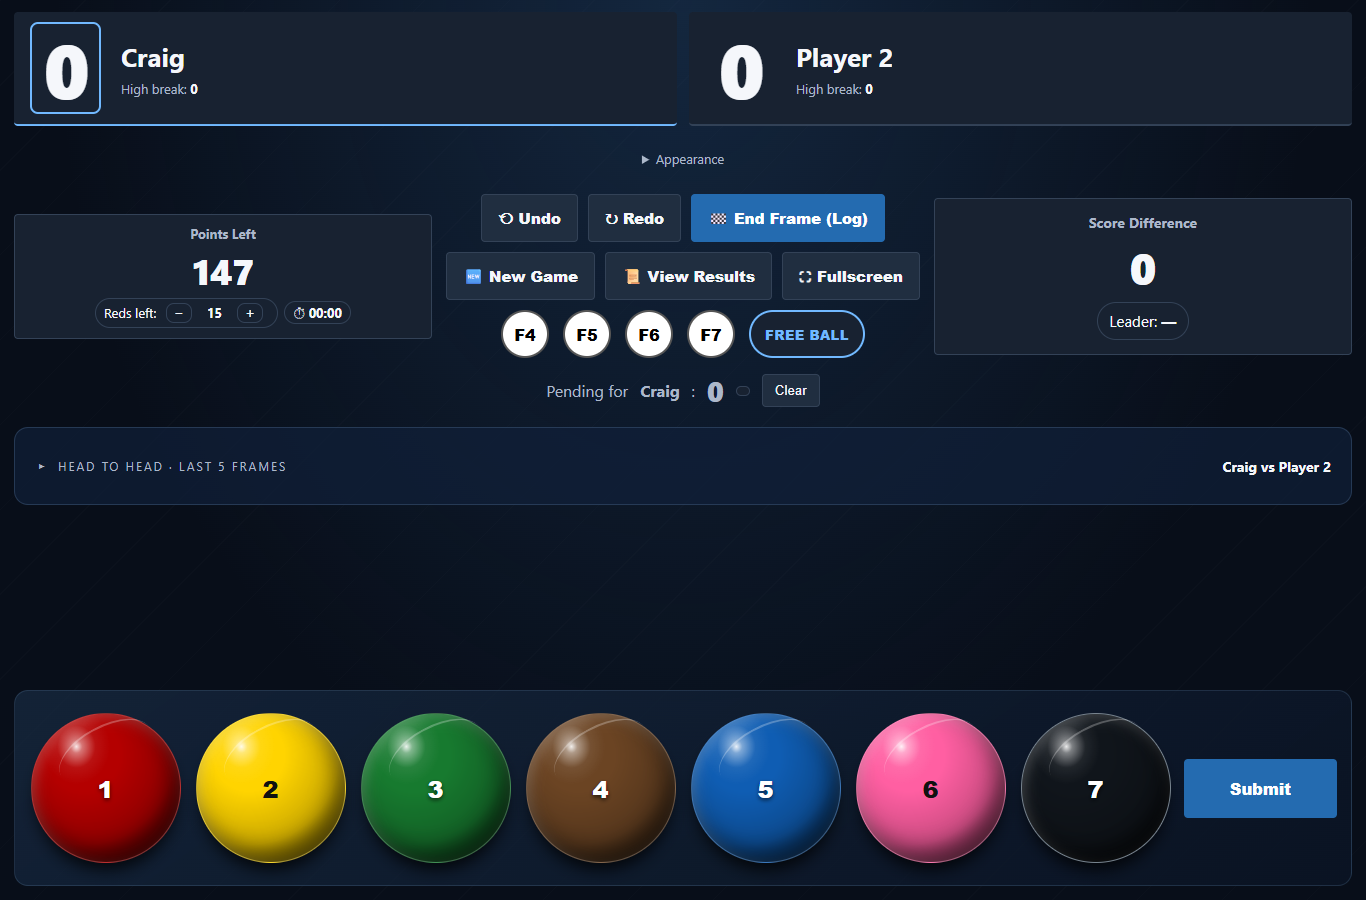
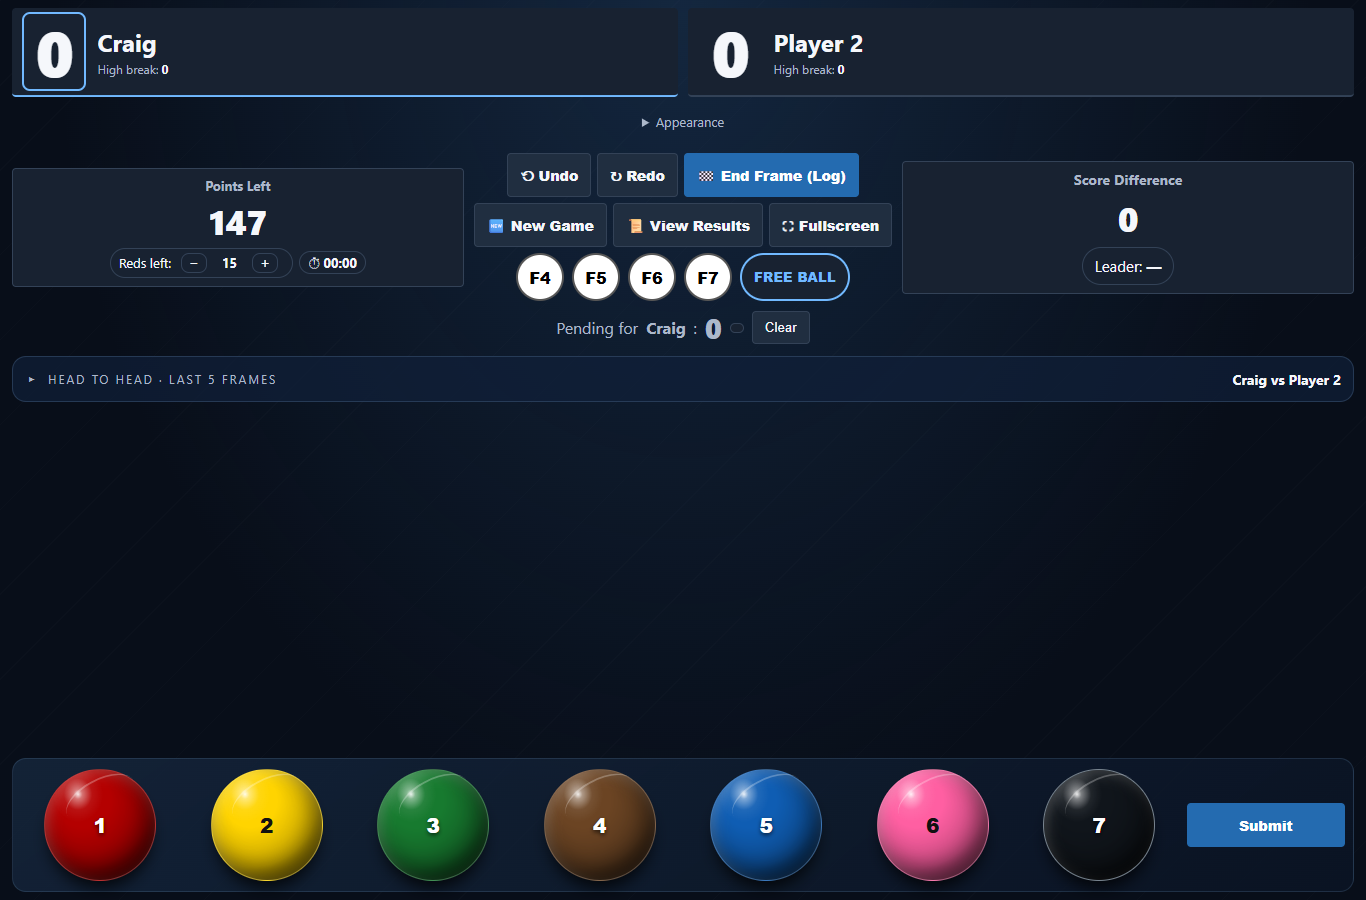
Make Broadcast fit smaller scaled displays

diff --git a/index.html b/index.html
@@ -264,6 +264,44 @@ html[data-theme="broadcast"] .submit {min-width:0;}
 @media(max-width:600px){html[data-theme="broadcast"] .ballRow{grid-template-columns:repeat(4,minmax(0,1fr));}html[data-theme="broadcast"] .player{column-gap:12px;padding:12px;}html[data-theme="broadcast"] .player .score{font-size:44px;padding:4px;}html[data-theme="broadcast"] .player.selected .score{padding:4px;}html[data-theme="broadcast"] .player .meta{font-size:11px;}}
 @media(max-width:1100px){html[data-theme]:not([data-theme="classic"]) .bottom{padding:16px 8px;}}
 @media(max-width:600px){.h2hGames{grid-template-columns:repeat(2,minmax(0,1fr));}.h2hGame:last-child{grid-column:1/-1;}html[data-theme]:not([data-theme="classic"]) .bottom{margin:0 14px 14px;}.headToHead{padding:14px;}}
+/* Broadcast density follows available viewport height, including scaled tablets. */
+html[data-theme="broadcast"] #app {height:100dvh;}
+html[data-theme="broadcast"] .players {padding:8px 12px;gap:10px;}
+html[data-theme="broadcast"] .player {padding:8px 14px;column-gap:16px;}
+html[data-theme="broadcast"] .player .score {font-size:clamp(40px,7dvh,64px);}
+html[data-theme="broadcast"] .player .name {font-size:clamp(18px,2vw,24px);}
+html[data-theme="broadcast"] .player .meta {padding-top:3px;font-size:12px;}
+html[data-theme="broadcast"] .appearance {margin-bottom:0;}
+html[data-theme="broadcast"] .appearance summary {padding:8px 12px;}
+html[data-theme="broadcast"] .middle {gap:10px;padding:4px 12px;}
+html[data-theme="broadcast"] .btnCol,html[data-theme="broadcast"] .btnRow {gap:6px;}
+html[data-theme="broadcast"] :is(.undoBtn,.redoBtn,.resetBtn,.logBtn,.resultsBtn) {padding:8px 12px;min-height:44px;font-size:14px;}
+html[data-theme="broadcast"] .foulRow {gap:8px;}
+html[data-theme="broadcast"] .freeBallBtn {min-height:44px;padding:8px 12px;font-size:13px;}
+html[data-theme="broadcast"] .statCard {padding:8px;}
+html[data-theme="broadcast"] .statCard .big {font-size:clamp(24px,4dvh,34px);}
+html[data-theme="broadcast"] .pending {padding:4px 10px;gap:8px;}
+html[data-theme="broadcast"] .headToHead {margin:6px 12px 8px;padding:0 12px;}
+html[data-theme="broadcast"] .headToHead[open] {padding-bottom:8px;}
+html[data-theme="broadcast"] .h2hGames {gap:6px;margin-top:4px;}
+html[data-theme="broadcast"] .h2hGame {padding:6px;}
+html[data-theme="broadcast"] .h2hGame strong {font-size:20px;}
+html[data-theme="broadcast"] .bottom {padding:10px 8px;margin: auto 12px 8px;}
+html[data-theme="broadcast"] .ballRow {gap:8px;}
+html[data-theme="broadcast"] .ball {width:min(100%,clamp(48px,15dvh,112px));font-size:20px;}
+html[data-theme="broadcast"] .submit {padding:12px 6px;min-height:44px;font-size:14px;}
+@media(min-width:601px) and (max-height:600px){
+html[data-theme="broadcast"] .players{padding:6px 12px;}
+html[data-theme="broadcast"] .player{padding:6px 12px;}
+html[data-theme="broadcast"] .player .score{font-size:40px;}
+html[data-theme="broadcast"] .middle{grid-template-columns:minmax(0,1fr) minmax(0,2.2fr) minmax(0,1fr);gap:6px;padding:2px 12px;}
+html[data-theme="broadcast"] :is(.undoBtn,.redoBtn,.resetBtn,.logBtn,.resultsBtn){padding:6px 8px;font-size:12px;}
+html[data-theme="broadcast"] .statCard .chip{font-size:12px;padding:4px 6px;}
+html[data-theme="broadcast"] .h2hGame{padding:4px;}
+html[data-theme="broadcast"] .h2hGame span{margin-top:2px;font-size:11px;}
+html[data-theme="broadcast"] .bottom{padding:8px;}
+html[data-theme="broadcast"] .ball{width:min(100%,64px);}
+}
 
 </style>
 </head>

diff --git a/results.html b/results.html
@@ -170,6 +170,44 @@ html[data-theme="broadcast"] .submit {min-width:0;}
 @media(max-width:600px){html[data-theme="broadcast"] .ballRow{grid-template-columns:repeat(4,minmax(0,1fr));}html[data-theme="broadcast"] .player{column-gap:12px;padding:12px;}html[data-theme="broadcast"] .player .score{font-size:44px;padding:4px;}html[data-theme="broadcast"] .player.selected .score{padding:4px;}html[data-theme="broadcast"] .player .meta{font-size:11px;}}
 @media(max-width:1100px){html[data-theme]:not([data-theme="classic"]) .bottom{padding:16px 8px;}}
 @media(max-width:600px){.h2hGames{grid-template-columns:repeat(2,minmax(0,1fr));}.h2hGame:last-child{grid-column:1/-1;}html[data-theme]:not([data-theme="classic"]) .bottom{margin:0 14px 14px;}.headToHead{padding:14px;}}
+/* Broadcast density follows available viewport height, including scaled tablets. */
+html[data-theme="broadcast"] #app {height:100dvh;}
+html[data-theme="broadcast"] .players {padding:8px 12px;gap:10px;}
+html[data-theme="broadcast"] .player {padding:8px 14px;column-gap:16px;}
+html[data-theme="broadcast"] .player .score {font-size:clamp(40px,7dvh,64px);}
+html[data-theme="broadcast"] .player .name {font-size:clamp(18px,2vw,24px);}
+html[data-theme="broadcast"] .player .meta {padding-top:3px;font-size:12px;}
+html[data-theme="broadcast"] .appearance {margin-bottom:0;}
+html[data-theme="broadcast"] .appearance summary {padding:8px 12px;}
+html[data-theme="broadcast"] .middle {gap:10px;padding:4px 12px;}
+html[data-theme="broadcast"] .btnCol,html[data-theme="broadcast"] .btnRow {gap:6px;}
+html[data-theme="broadcast"] :is(.undoBtn,.redoBtn,.resetBtn,.logBtn,.resultsBtn) {padding:8px 12px;min-height:44px;font-size:14px;}
+html[data-theme="broadcast"] .foulRow {gap:8px;}
+html[data-theme="broadcast"] .freeBallBtn {min-height:44px;padding:8px 12px;font-size:13px;}
+html[data-theme="broadcast"] .statCard {padding:8px;}
+html[data-theme="broadcast"] .statCard .big {font-size:clamp(24px,4dvh,34px);}
+html[data-theme="broadcast"] .pending {padding:4px 10px;gap:8px;}
+html[data-theme="broadcast"] .headToHead {margin:6px 12px 8px;padding:0 12px;}
+html[data-theme="broadcast"] .headToHead[open] {padding-bottom:8px;}
+html[data-theme="broadcast"] .h2hGames {gap:6px;margin-top:4px;}
+html[data-theme="broadcast"] .h2hGame {padding:6px;}
+html[data-theme="broadcast"] .h2hGame strong {font-size:20px;}
+html[data-theme="broadcast"] .bottom {padding:10px 8px;margin: auto 12px 8px;}
+html[data-theme="broadcast"] .ballRow {gap:8px;}
+html[data-theme="broadcast"] .ball {width:min(100%,clamp(48px,15dvh,112px));font-size:20px;}
+html[data-theme="broadcast"] .submit {padding:12px 6px;min-height:44px;font-size:14px;}
+@media(min-width:601px) and (max-height:600px){
+html[data-theme="broadcast"] .players{padding:6px 12px;}
+html[data-theme="broadcast"] .player{padding:6px 12px;}
+html[data-theme="broadcast"] .player .score{font-size:40px;}
+html[data-theme="broadcast"] .middle{grid-template-columns:minmax(0,1fr) minmax(0,2.2fr) minmax(0,1fr);gap:6px;padding:2px 12px;}
+html[data-theme="broadcast"] :is(.undoBtn,.redoBtn,.resetBtn,.logBtn,.resultsBtn){padding:6px 8px;font-size:12px;}
+html[data-theme="broadcast"] .statCard .chip{font-size:12px;padding:4px 6px;}
+html[data-theme="broadcast"] .h2hGame{padding:4px;}
+html[data-theme="broadcast"] .h2hGame span{margin-top:2px;font-size:11px;}
+html[data-theme="broadcast"] .bottom{padding:8px;}
+html[data-theme="broadcast"] .ball{width:min(100%,64px);}
+}
 
 </style>
 </head>

diff --git a/review/dramatic.css b/review/dramatic.css
@@ -46,3 +46,41 @@ html[data-theme="broadcast"] .submit {min-width:0;}
 @media(max-width:600px){html[data-theme="broadcast"] .ballRow{grid-template-columns:repeat(4,minmax(0,1fr));}html[data-theme="broadcast"] .player{column-gap:12px;padding:12px;}html[data-theme="broadcast"] .player .score{font-size:44px;padding:4px;}html[data-theme="broadcast"] .player.selected .score{padding:4px;}html[data-theme="broadcast"] .player .meta{font-size:11px;}}
 @media(max-width:1100px){html[data-theme]:not([data-theme="classic"]) .bottom{padding:16px 8px;}}
 @media(max-width:600px){.h2hGames{grid-template-columns:repeat(2,minmax(0,1fr));}.h2hGame:last-child{grid-column:1/-1;}html[data-theme]:not([data-theme="classic"]) .bottom{margin:0 14px 14px;}.headToHead{padding:14px;}}
+/* Broadcast density follows available viewport height, including scaled tablets. */
+html[data-theme="broadcast"] #app {height:100dvh;}
+html[data-theme="broadcast"] .players {padding:8px 12px;gap:10px;}
+html[data-theme="broadcast"] .player {padding:8px 14px;column-gap:16px;}
+html[data-theme="broadcast"] .player .score {font-size:clamp(40px,7dvh,64px);}
+html[data-theme="broadcast"] .player .name {font-size:clamp(18px,2vw,24px);}
+html[data-theme="broadcast"] .player .meta {padding-top:3px;font-size:12px;}
+html[data-theme="broadcast"] .appearance {margin-bottom:0;}
+html[data-theme="broadcast"] .appearance summary {padding:8px 12px;}
+html[data-theme="broadcast"] .middle {gap:10px;padding:4px 12px;}
+html[data-theme="broadcast"] .btnCol,html[data-theme="broadcast"] .btnRow {gap:6px;}
+html[data-theme="broadcast"] :is(.undoBtn,.redoBtn,.resetBtn,.logBtn,.resultsBtn) {padding:8px 12px;min-height:44px;font-size:14px;}
+html[data-theme="broadcast"] .foulRow {gap:8px;}
+html[data-theme="broadcast"] .freeBallBtn {min-height:44px;padding:8px 12px;font-size:13px;}
+html[data-theme="broadcast"] .statCard {padding:8px;}
+html[data-theme="broadcast"] .statCard .big {font-size:clamp(24px,4dvh,34px);}
+html[data-theme="broadcast"] .pending {padding:4px 10px;gap:8px;}
+html[data-theme="broadcast"] .headToHead {margin:6px 12px 8px;padding:0 12px;}
+html[data-theme="broadcast"] .headToHead[open] {padding-bottom:8px;}
+html[data-theme="broadcast"] .h2hGames {gap:6px;margin-top:4px;}
+html[data-theme="broadcast"] .h2hGame {padding:6px;}
+html[data-theme="broadcast"] .h2hGame strong {font-size:20px;}
+html[data-theme="broadcast"] .bottom {padding:10px 8px;margin: auto 12px 8px;}
+html[data-theme="broadcast"] .ballRow {gap:8px;}
+html[data-theme="broadcast"] .ball {width:min(100%,clamp(48px,15dvh,112px));font-size:20px;}
+html[data-theme="broadcast"] .submit {padding:12px 6px;min-height:44px;font-size:14px;}
+@media(min-width:601px) and (max-height:600px){
+html[data-theme="broadcast"] .players{padding:6px 12px;}
+html[data-theme="broadcast"] .player{padding:6px 12px;}
+html[data-theme="broadcast"] .player .score{font-size:40px;}
+html[data-theme="broadcast"] .middle{grid-template-columns:minmax(0,1fr) minmax(0,2.2fr) minmax(0,1fr);gap:6px;padding:2px 12px;}
+html[data-theme="broadcast"] :is(.undoBtn,.redoBtn,.resetBtn,.logBtn,.resultsBtn){padding:6px 8px;font-size:12px;}
+html[data-theme="broadcast"] .statCard .chip{font-size:12px;padding:4px 6px;}
+html[data-theme="broadcast"] .h2hGame{padding:4px;}
+html[data-theme="broadcast"] .h2hGame span{margin-top:2px;font-size:11px;}
+html[data-theme="broadcast"] .bottom{padding:8px;}
+html[data-theme="broadcast"] .ball{width:min(100%,64px);}
+}
